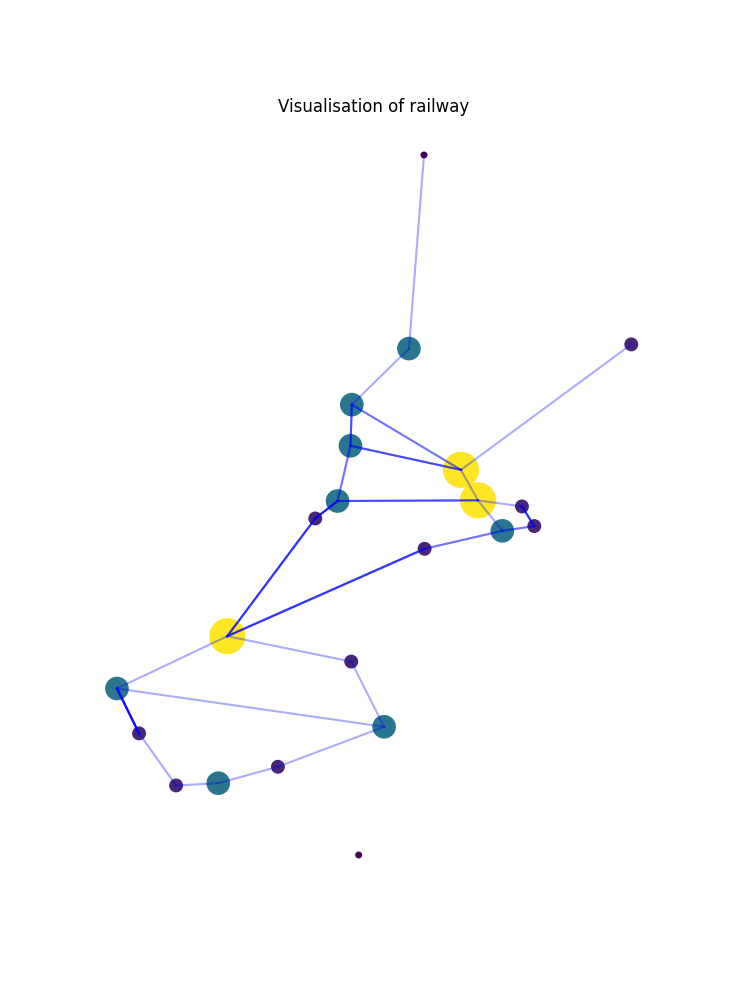
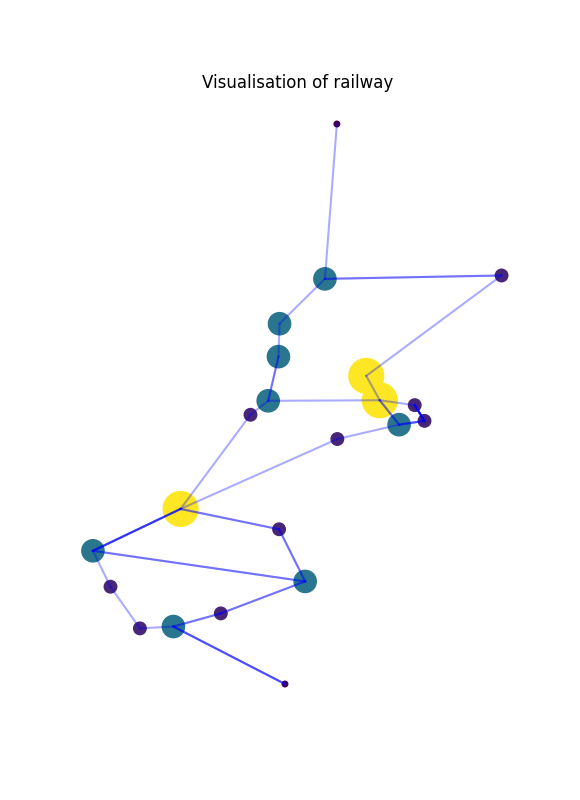
visualisation plots optimized

diff --git a/main_functions.py b/main_functions.py
@@ -23,11 +23,13 @@ class Main:
         self.algorithm = input("\nWhich algorithm?\n")
 
         # tot nu toe alleen nog maar baseline
-        while self.algorithm not in ["baseline", "hill climber"]:
+        while self.algorithm not in ["baseline", "hill climber", "beam"]:
             self.algorithm = \
             input("Please provide an algortihm in the command line.\n\
         Options:\n\
-        baseline\n\n")
+        baseline\n\
+        hill climber\n\
+        beam\n\n")
             
         # retrieve region
         self.region = input("\nWhich region?\n")
@@ -79,7 +81,7 @@ class Main:
                     self.highest_K = K_value
                     self.best_rail = rail
     
-    def baseline(self):
+    def hill_climber(self):
         # get max trajectories
         max = int(input("\nWhat is the maximum of trajectories?\n"))
 
@@ -101,9 +103,10 @@ class Main:
         x.load_sizes()
         x.get_connections()
 
+        # plot map of the best lijnvoering
+        x.draw()
         # plot histogram of all K's
         x.histogram(self.K_values, self.iterations)
-        # plot map of the best lijnvoering
-        x.plot()
+
 
         

diff --git a/code/visual/visual.py b/code/visual/visual.py
@@ -94,9 +94,9 @@ class Visualisation:
             for i in range(0, len(stations) - 1):
                 self.connections.append((stations[i], stations [i + 1]))
 
-    def plot(self):
+    def draw(self):
         # determine size of the figure and remove axes
-        plt.figure(figsize=(7.3,10))
+        plt.figure(figsize=(5.8,8))
         plt.title("Visualisation of railway")
         plt.axis('off')
         # scatter the stations with their corresponding size, 
@@ -109,11 +109,12 @@ class Visualisation:
             self.x_values = [self.x_station[station], self.x_station[connection]]
             self.y_values = [self.y_station[station], self.y_station[connection]]
             plt.plot(self.x_values, self.y_values, '-', color='blue', alpha=0.33)
+            # draw the connections
             plt.draw()
             plt.pause(.1)
 
         plt.savefig("visual_representation.png")
-        plt.clf()
+        plt.show()
 
     def histogram(self, K_values, iterations):
         """plot a histogram of the quality of all the solutions

diff --git a/code/algorithms/hill_climber.py b/code/algorithms/hill_climber.py
@@ -1,5 +1,6 @@
 from code.classes.stations import Station
 from code.classes.trajectory import Trajectory
+from baseline import Baseline
 
 import random
 import matplotlib.pyplot as plt
@@ -10,7 +11,6 @@ class Hillclimber:
     def __init__(self, max, region) -> None:
         self.baseline_instance = Baseline(max, region)
     
-
     def random_railmap(self):
         """Generate a random railmap using the Baseline class."""
         # Start with a random trajectory from the baseline

diff --git a/code/algorithms/iterativedeepening.py b/code/algorithms/iterativedeepening.py
@@ -88,8 +88,7 @@ class IDS:
 
                 # add the connection and time to the list of all connections
                 self.connections.append((name, connection))
-                
-                
+
                 # read new line
                 line = f.readline()
                 

diff --git a/main.py b/main.py
@@ -17,7 +17,7 @@ if __name__ == "__main__":
         main.hill_climber()
         main.visualisation()
         
-    if main.algorithm == "beam"
+    if main.algorithm == "beam":
         #testen
         main.beam()
     
